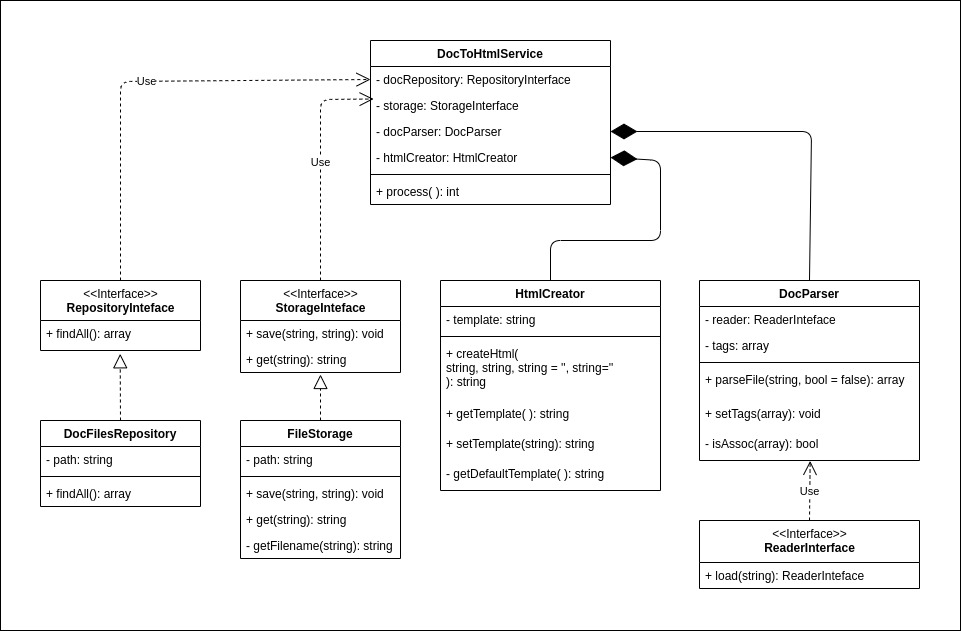
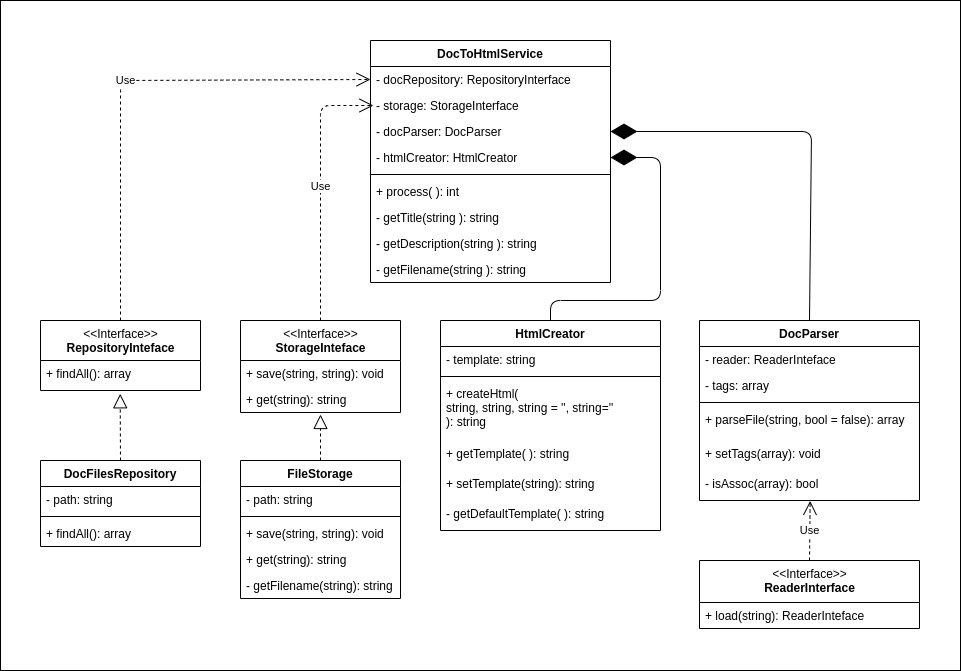
fix hardcore

diff --git a/code/src/Service/DocToHtmlService.php b/code/src/Service/DocToHtmlService.php
@@ -13,6 +13,9 @@ use PhpOffice\PhpWord\IOFactory;
 
 class DocToHtmlService
 {
+    const TITLE_POSTFIX = ' в Москве - Автосервис "Ровер"';
+    const DESCRIPTION_POSTFIX = ' в Москве. Бесплатная диагностика. Гарантия качества. Записаться - 8(XXX)XXX-XX-XX.';
+
     private RepositoryInterface $docRepository;
     private StorageInterface $storage;
     private DocParser $docParser;
@@ -42,16 +45,34 @@ class DocToHtmlService
         foreach ($files as $file) {
             list($title, $body) = $this->docParser->parseFile($file);
             $html = $this->htmlCreator->createHtml(
-                $title . ' в Москве - Автосервис "Ровер"',
+                $this->getTitle($title),
                 $body,
-                $title . ' в Москве. Бесплатная диагностика. Гарантия качества. Записаться - 8(495)150-70-69.'
+                $this->getDescription($title)
             );
 
-            $this->storage->save($title . '.html', $html);
+            $this->storage->save(
+                $this->getFilename($title),
+                $html
+            );
             $counter++;
         }
 
         return $counter;
+    }
+
+    private function getTitle(string $title): string
+    {
+        return $title . self::TITLE_POSTFIX;
+    }
+
+    private function getDescription(string $title): string
+    {
+        return $title . self::DESCRIPTION_POSTFIX;
+    }
+
+    private function getFilename(string $title): string
+    {
+        return $title . '.html';
     }
 
 
